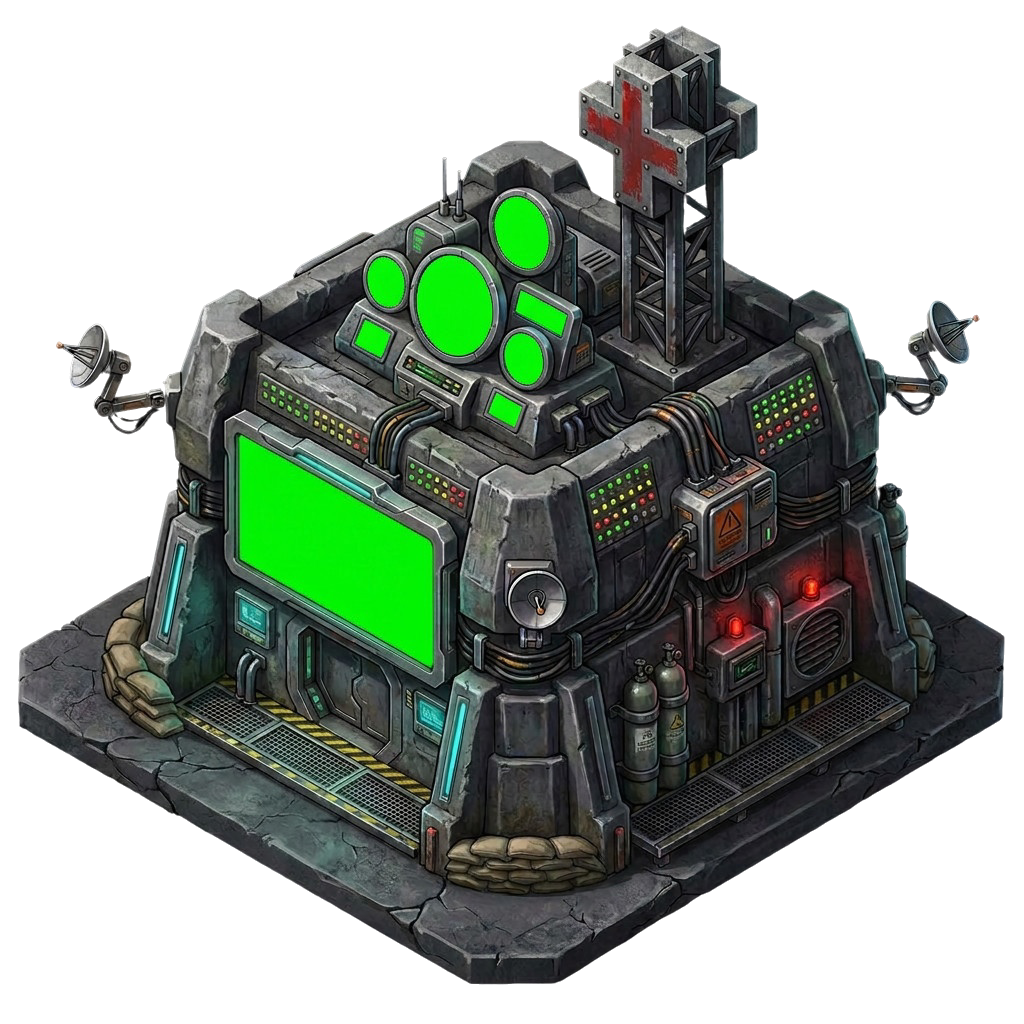
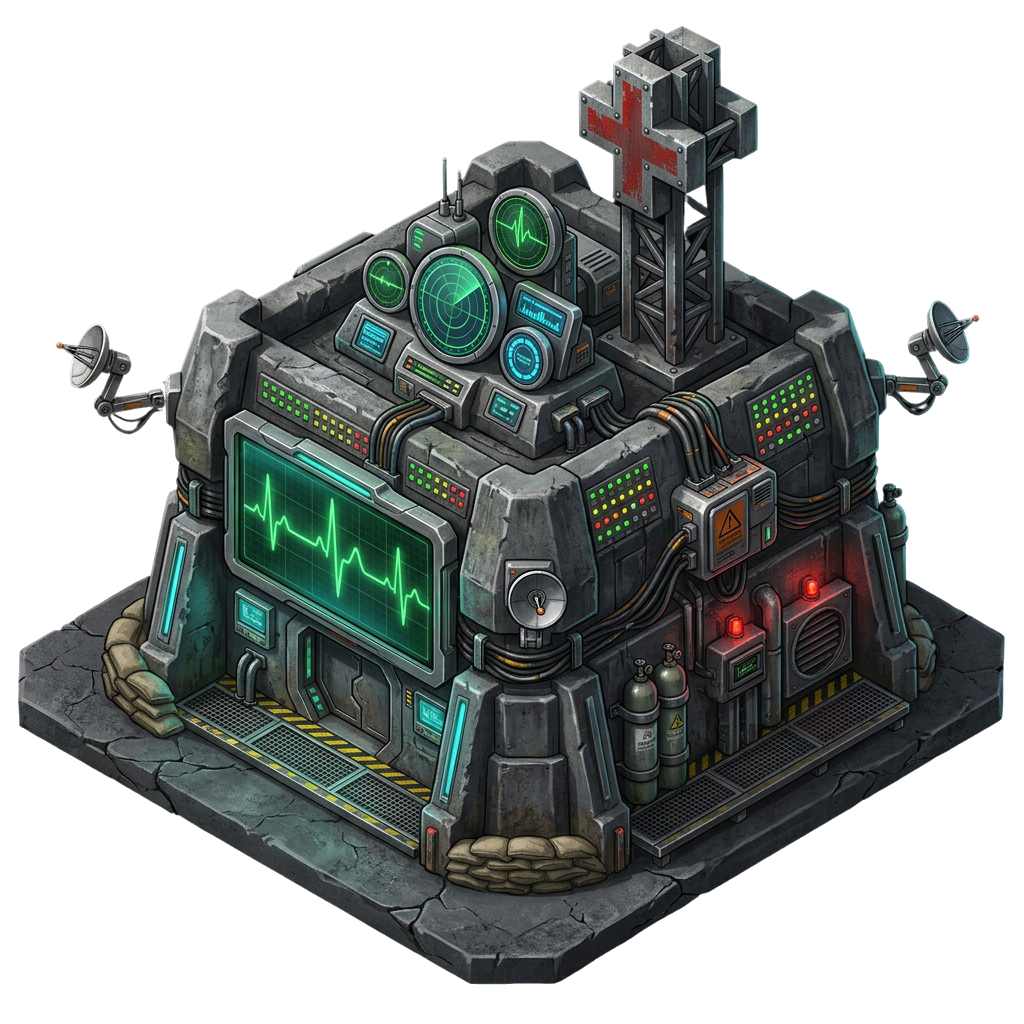
add idle animations

diff --git a/gh-ctrl/client/src/components/HealthcheckBuilding.tsx b/gh-ctrl/client/src/components/HealthcheckBuilding.tsx
@@ -98,6 +98,23 @@ export function HealthcheckBuilding({
 
   const colorizedSrc = useColorizedImage('/buildings/healthcheck.png', currentBuilding.color ?? '#00FF00')
 
+  const [idleAnimSrc, setIdleAnimSrc] = useState<string | null>(null)
+  useEffect(() => {
+    let timeout: ReturnType<typeof setTimeout>
+    function scheduleNext() {
+      const delay = 8000 + Math.random() * 12000
+      timeout = setTimeout(() => {
+        setIdleAnimSrc('/buildings/idle_1_4s_healthcheck.gif')
+        timeout = setTimeout(() => {
+          setIdleAnimSrc(null)
+          scheduleNext()
+        }, 4000)
+      }, delay)
+    }
+    scheduleNext()
+    return () => clearTimeout(timeout)
+  }, [])
+
   useEffect(() => {
     setCurrentBuilding(building)
   }, [building])
@@ -194,7 +211,14 @@ export function HealthcheckBuilding({
       >
         {/* Building image */}
         <div className="clawcom-img-wrap" style={{ position: 'relative' }}>
-          {colorizedSrc ? (
+          {idleAnimSrc ? (
+            <img
+              src={idleAnimSrc}
+              alt={currentBuilding.name}
+              style={{ width: 100, height: 100, objectFit: 'contain' }}
+              draggable={false}
+            />
+          ) : colorizedSrc ? (
             <img
               src={colorizedSrc}
               alt={currentBuilding.name}
